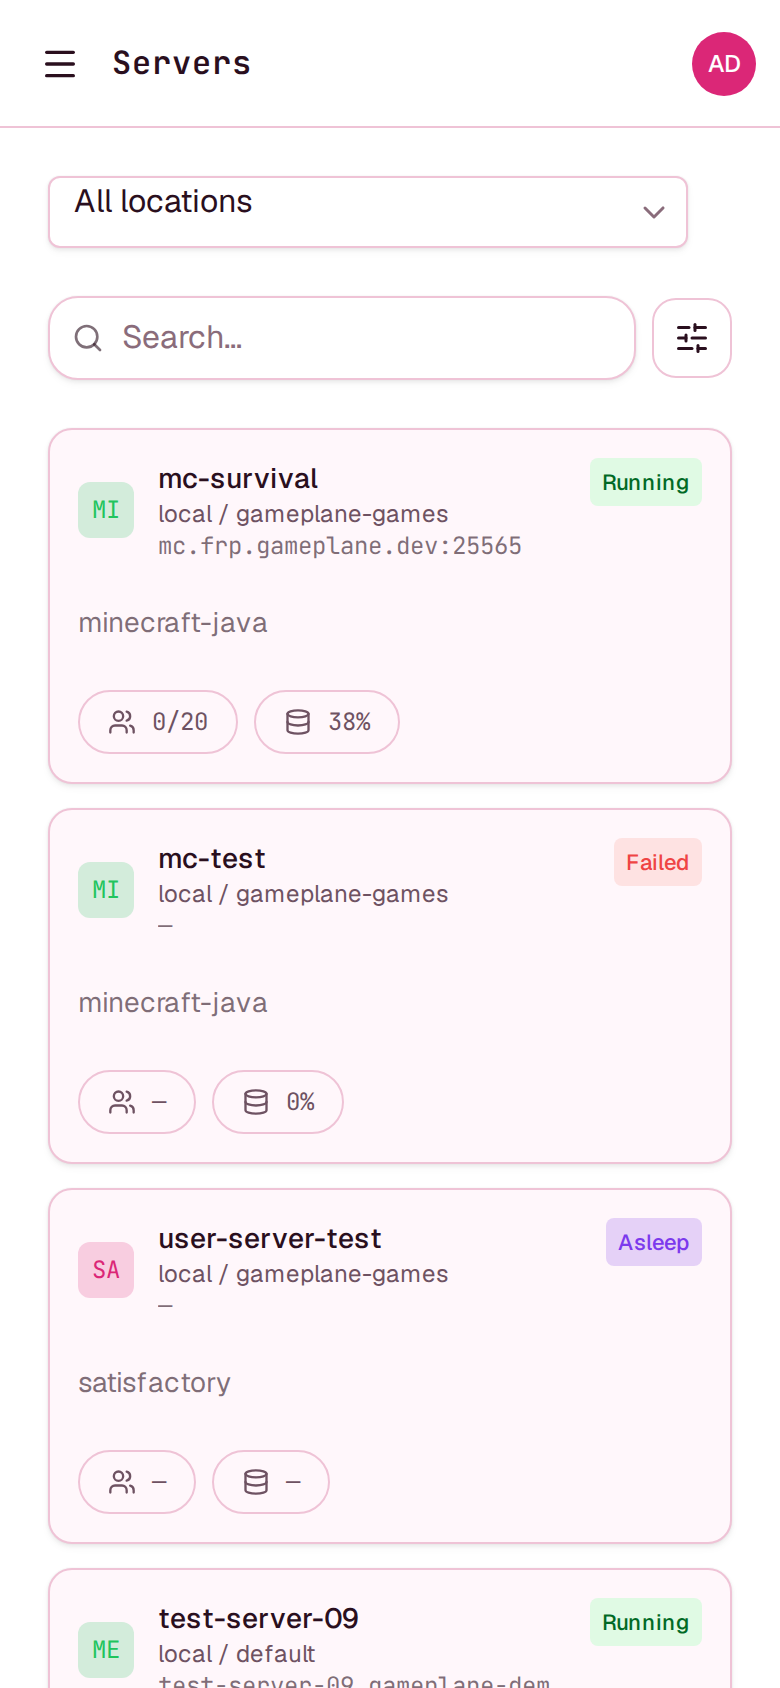
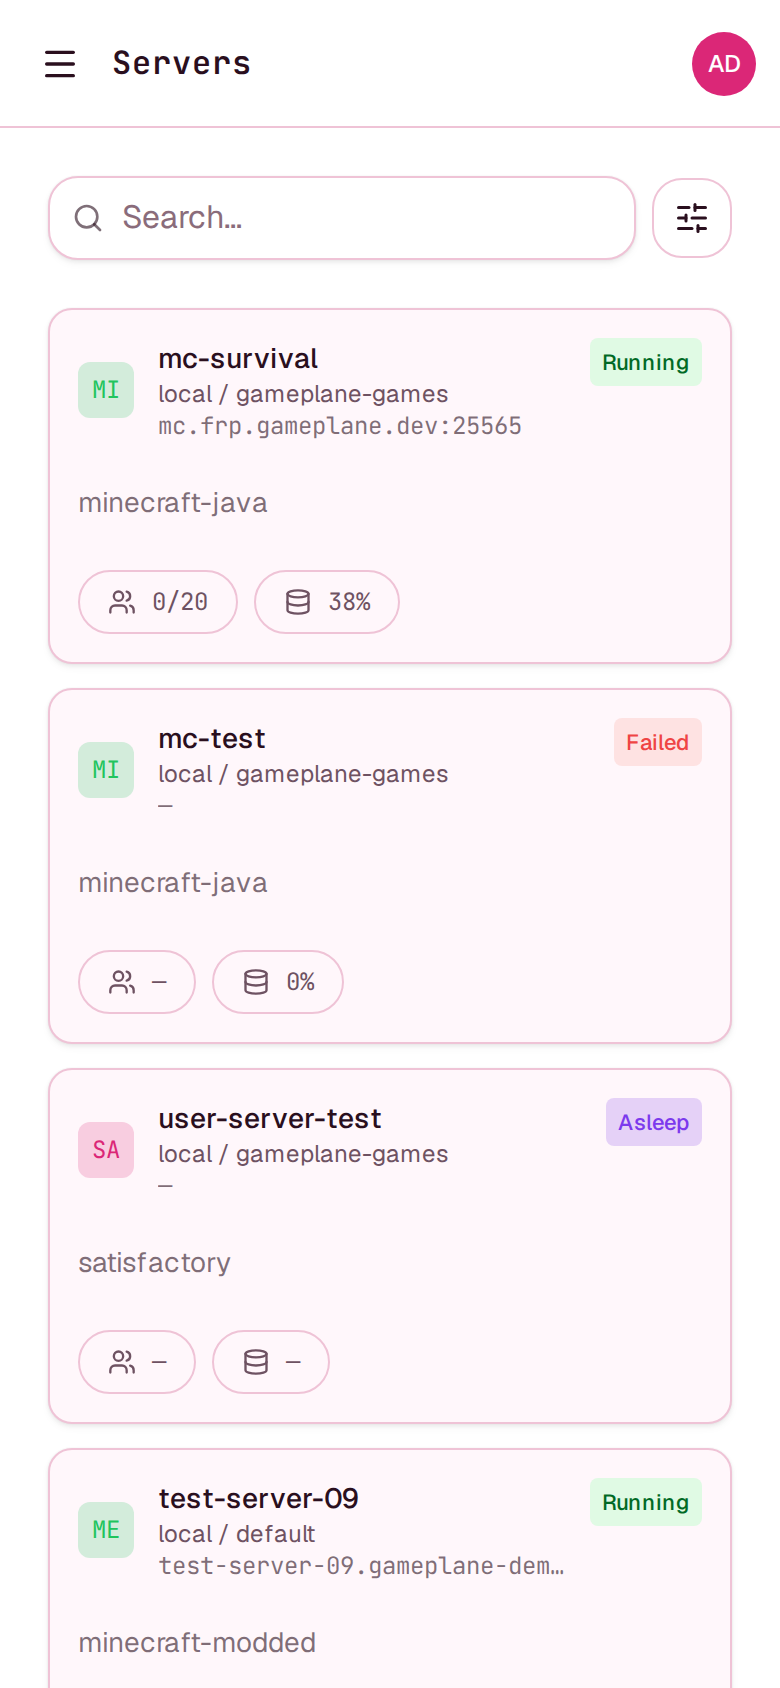
test(web): verify compact filter menus and mobile layout

diff --git a/web/src/lib/fleetLocation.test.tsx b/web/src/lib/fleetLocation.test.tsx
@@ -111,19 +111,25 @@ describe("fleet location follows router navigation", () => {
       expect(screen.getByRole("tab", { name: "Backups" })).toHaveAttribute("aria-selected", "true");
       await userEvent.click(screen.getByRole("button", { name: /^Filter$/ }));
       expect(screen.getByRole("button", { name: /Filter by location/ })).toHaveTextContent("All locations");
+      screen.getByRole("button", { name: "Clear" }).focus();
       await userEvent.keyboard("{Escape}");
+      expect(screen.queryByRole("button", { name: /Filter by location/ })).not.toBeInTheDocument();
 
       act(() => history.back());
       await waitFor(() => expect(screen.getByRole("tab", { name: "Schedules" })).toHaveAttribute("aria-selected", "true"));
-      await userEvent.click(screen.getByRole("button", { name: /^Filter 1$/ }));
+      await userEvent.click(screen.getByRole("button", { name: /^Filter\s*1$/ }));
       expect(screen.getByRole("button", { name: /Filter by location/ })).toHaveTextContent("remote");
+      screen.getByRole("button", { name: "Clear" }).focus();
       await userEvent.keyboard("{Escape}");
+      expect(screen.queryByRole("button", { name: /Filter by location/ })).not.toBeInTheDocument();
       expect(router.state.location.search).toMatchObject({ tab: "schedules", cluster: "remote" });
       act(() => history.forward());
       await waitFor(() => expect(screen.getByRole("tab", { name: "Backups" })).toHaveAttribute("aria-selected", "true"));
       await userEvent.click(screen.getByRole("button", { name: /^Filter$/ }));
       expect(screen.getByRole("button", { name: /Filter by location/ })).toHaveTextContent("All locations");
+      screen.getByRole("button", { name: "Clear" }).focus();
       await userEvent.keyboard("{Escape}");
+      expect(screen.queryByRole("button", { name: /Filter by location/ })).not.toBeInTheDocument();
     } finally {
       unmount();
       history.destroy();

diff --git a/web/src/components/backups/BackupFilters.test.tsx b/web/src/components/backups/BackupFilters.test.tsx
@@ -73,7 +73,10 @@ describe("BackupFilters", () => {
     await userEvent.click(screen.getByRole("button", { name: /^Filter$/ }));
     await userEvent.click(screen.getByRole("button", { name: /Filter by location/ }));
     await userEvent.click(screen.getByRole("option", { name: "remote" }));
+    // Dismiss the outer filter menu, not the nested Select trigger.
+    screen.getByRole("button", { name: "Clear" }).focus();
     await userEvent.keyboard("{Escape}");
+    expect(screen.queryByRole("button", { name: /Filter by location/ })).not.toBeInTheDocument();
     expect(onLocationChange).not.toHaveBeenCalled();
     await userEvent.click(screen.getByRole("button", { name: /^Filter$/ }));
     expect(screen.getByRole("button", { name: /Filter by location/ })).toHaveTextContent("All locations");
@@ -89,7 +92,7 @@ describe("BackupFilters", () => {
     const onPhaseChange = vi.fn();
     render(<BackupFilters {...baseProps} server="alpha" phase="Succeeded"
       onLocationChange={onLocationChange} onServerChange={onServerChange} onPhaseChange={onPhaseChange} />);
-    await userEvent.click(screen.getByRole("button", { name: /^Filter 2$/ }));
+    await userEvent.click(screen.getByRole("button", { name: /^Filter\s*2$/ }));
     await userEvent.click(screen.getByRole("button", { name: "Clear" }));
     expect(onLocationChange).not.toHaveBeenCalled();
     expect(onServerChange).not.toHaveBeenCalled();

diff --git a/web/e2e/specs/multicluster-ui.spec.ts b/web/e2e/specs/multicluster-ui.spec.ts
@@ -61,7 +61,7 @@ test.describe("multicluster administration", () => {
       await expect(main.getByText("remote-demo / gameplane-games", { exact: true })).toBeVisible();
 
       await expect(main.getByRole("button", { name: /Filter by location/ })).toHaveCount(0);
-      const filter = main.getByRole("button", { name: /^Filter(?:\s+\d+)?$/ });
+      const filter = main.getByRole("button", { name: /^Filter(?:\s*\d+)?$/ });
       await filter.click();
       await page.getByRole("button", { name: /Filter by location/ }).click();
       await page.getByRole("option", { name: "remote-demo", exact: true }).click();

diff --git a/web/visual-references/unified-fleet/README.md b/web/visual-references/unified-fleet/README.md
@@ -1,8 +1,8 @@
 # Unified fleet implementation reference
 
-`DWztv.png` is the reviewed original browser capture of the light mobile server list. It records the location filter and the cluster/namespace line on each server card described in [the unified dashboard design](../../../docs/unified-dashboard.md), under the approved existing-components design exception.
+`DWztv.png` is the reviewed original browser capture of the light mobile server list. It records the compact Filter trigger and the cluster/namespace line on each server card described in [the unified dashboard design](../../../docs/unified-dashboard.md), under the approved existing-components design exception.
 
-The filter and identity lines intentionally increase the vertical space. Search, status badges and visible server cards remain readable without overlap or horizontal clipping. Further cards remain reachable by normal vertical scrolling. The desktop and narrow mobile browser checks separately verify overflow and resource identity.
+Location now belongs inside the Filter popover, so the separate location row is removed and Search and the server cards move upward. The identity lines remain visible. Search, status badges and visible server cards remain readable without overlap or horizontal clipping. Further cards remain reachable by normal vertical scrolling. The desktop and narrow mobile browser checks separately verify overflow and resource identity.
 
 This is a browser implementation reference, not a Pencil export. Its source commit, workflow run, artifact and SHA256 are recorded in `manifest.json`. The original PNG bytes are copied directly from the CI artifact without resizing, cropping or retouching. `design.pen` and `design-export/` remain unchanged.
 
